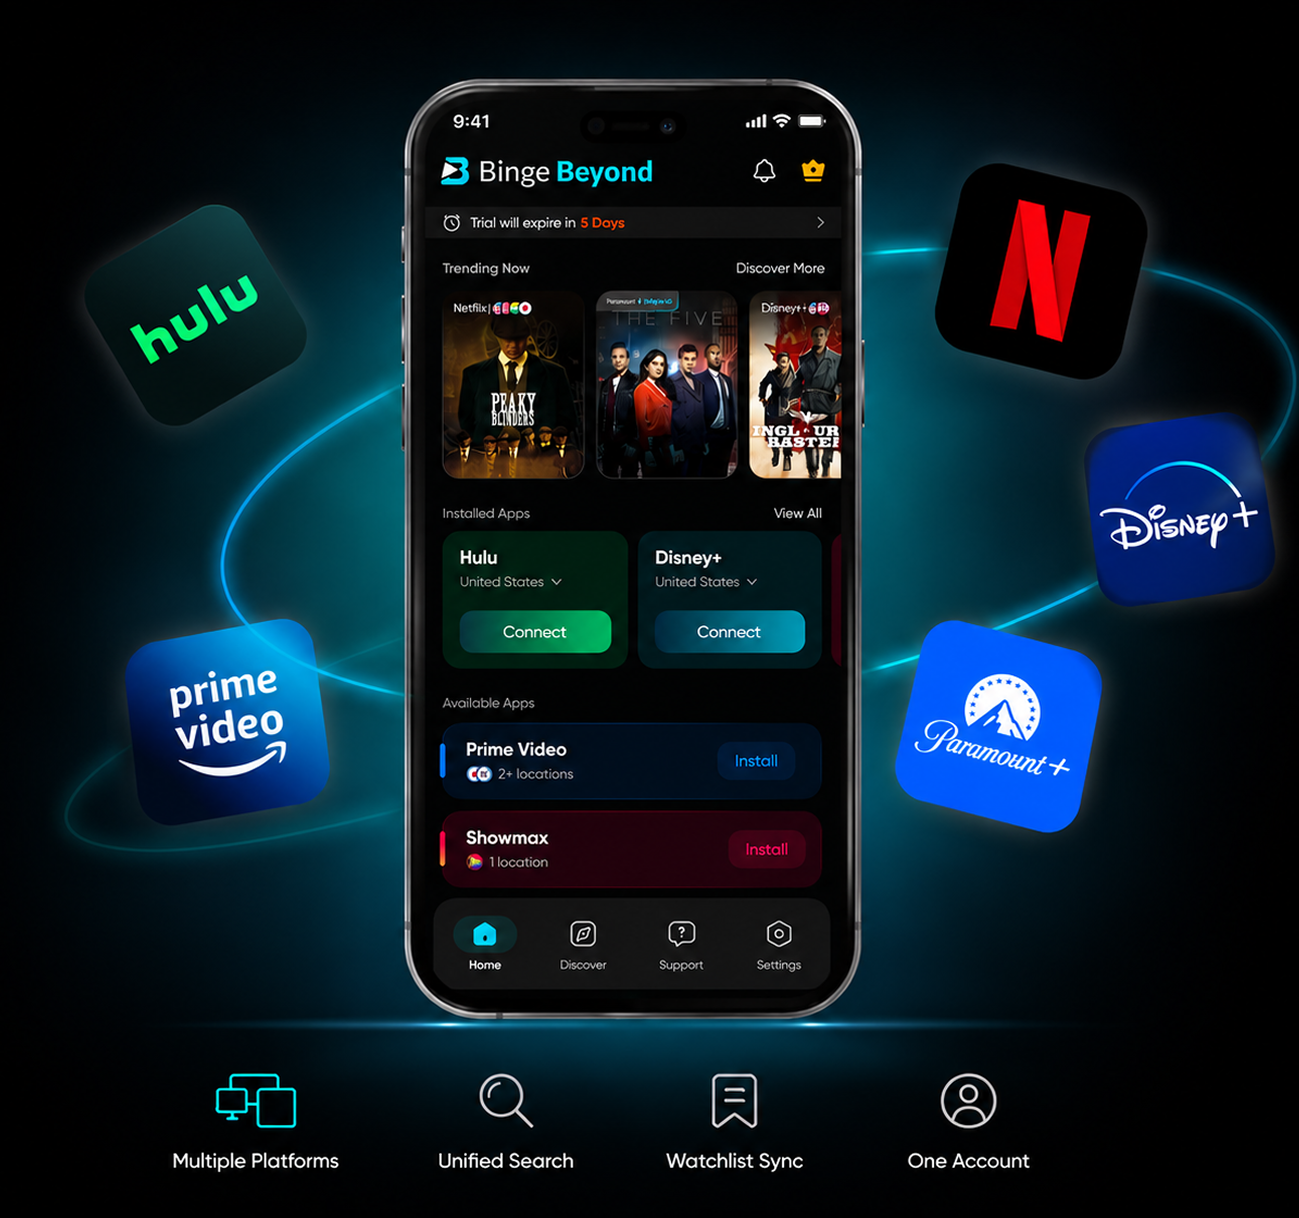
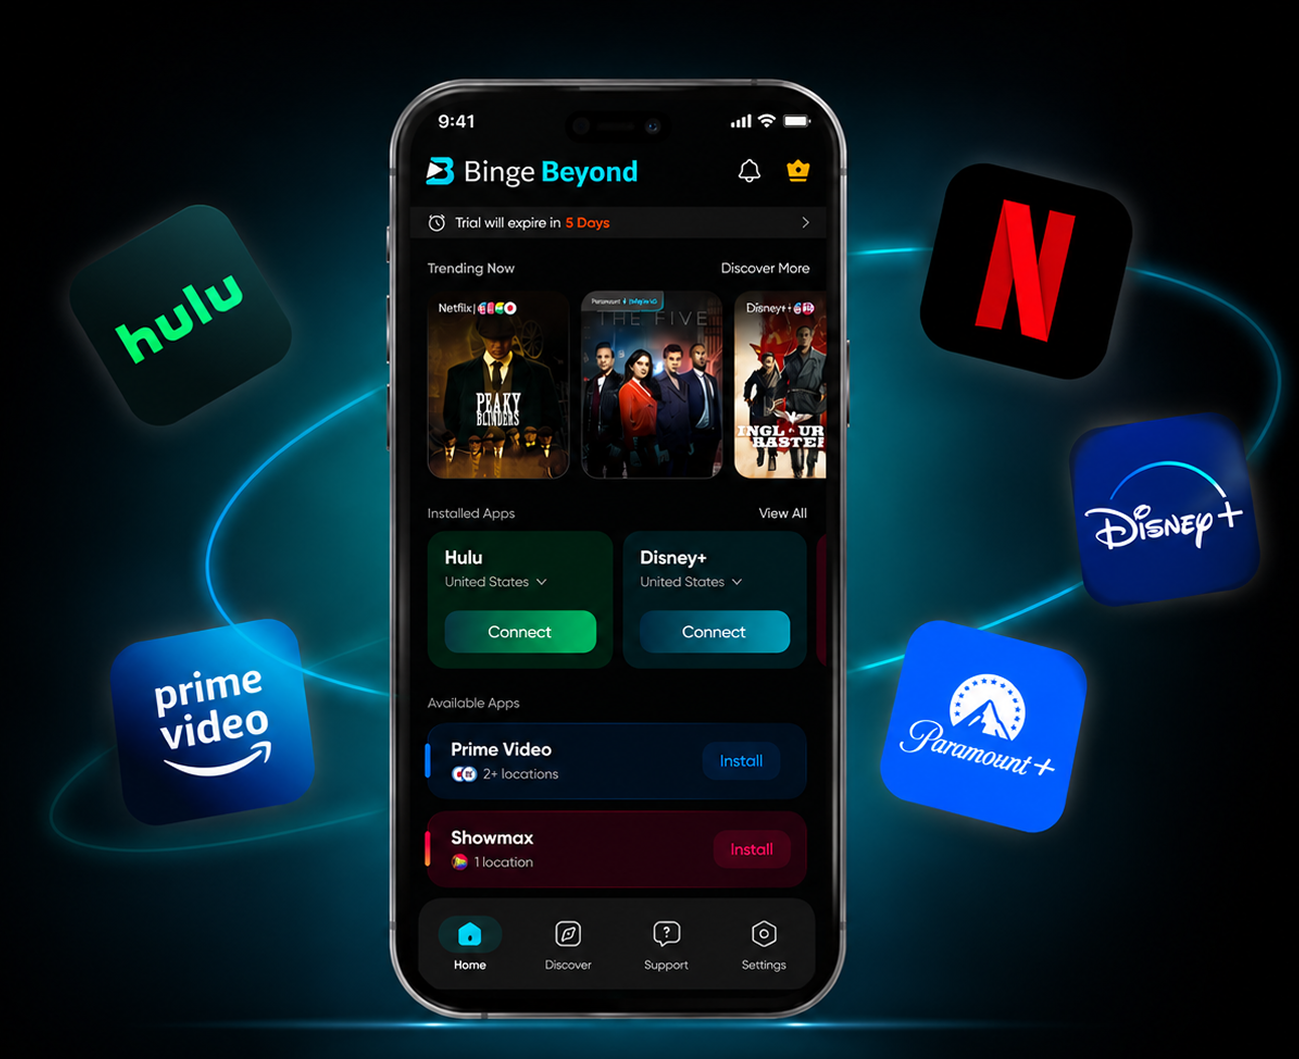
bg-gradient added

diff --git a/src/pages/VersionOneOne.jsx b/src/pages/VersionOneOne.jsx
@@ -18,6 +18,7 @@ import {
     Navigation, Share2, Layers as LayersIcon, Zap as ZapBolt, AppWindow,
     Mail, ExternalLink, Quote, Plus as PlusIcon, Minus as MinusIcon
 } from 'lucide-react';
+import logo from "../Binge-logo.svg";
 
 const App = () => {
     const [scrolled, setScrolled] = useState(false);
@@ -206,7 +207,7 @@ const App = () => {
     const prevTestimonial = () => setTestimonialSlide((prev) => (prev - 1 + testimonials.length) % testimonials.length);
 
     return (
-        <div className="min-h-screen bg-[#0f172a] text-white font-sans selection:bg-cyan-500 selection:text-black overflow-x-hidden relative">
+        <div className="min-h-screen master-raycast-atmosphere text-white font-sans selection:bg-cyan-500 selection:text-black overflow-x-hidden relative">
             <style>{`
         @keyframes slowPan { 0% { transform: scale(1.1) translate(0, 0); } 50% { transform: scale(1.15) translate(-1%, -1%); } 100% { transform: scale(1.1) translate(0, 0); } }
         @keyframes marquee { 0% { transform: translateX(0); } 100% { transform: translateX(-50%); } }
@@ -378,18 +379,30 @@ const App = () => {
             {/* Navigation */}
             <nav className={`fixed top-0 w-full z-50 transition-all duration-500 px-6 py-4 flex items-center justify-between ${scrolled ? 'bg-[#0f172a]/95 backdrop-blur-md border-b border-white/10 py-3' : 'bg-transparent'}`}>
                 <div className="flex items-center gap-8">
-                    <div className="text-2xl font-black tracking-tighter flex items-center">
-                        <span className="text-white text-[24px]">BINGE</span>
-                        <span className="text-cyan-400 text-[24px]">BEYOND</span>
+                    <div className="flex-shrink-0 flex items-center cursor-pointer">
+                        <img
+                            src="/images/Binge-logo.svg"
+                            alt="BingeBeyond Logo"
+                            className="h-8 w-8 object-contain mr-2"
+                        />
+                        <span className="text-white font-gilroy text-[16px] md:text-[22px] lg:text-[28px] font-normal non-italic leading-[130%]">Binge</span>
+                        <span className="text-[#00D1E9] font-gilroy text-[16px] md:text-[22px] lg:text-[28px] font-normal non-italic leading-[130%]">Beyond</span>
                     </div>
                     <div className="hidden md:flex items-center gap-6 text-[10px] font-black tracking-[0.3em] text-gray-300 uppercase">
                         <a href="#benefits" className="hover:text-cyan-400 transition-colors uppercase">Benefits</a>
                         <a href="#protocol" className="hover:text-cyan-400 transition-colors uppercase">How it works</a>
-                        <a href="#beyond" className="hover:text-cyan-400 transition-colors uppercase">Multiverse</a>
+                        <a href="" className="hover:text-cyan-400 transition-colors uppercase">Discover Beyond</a>
                     </div>
                 </div>
-                <button className="px-6 py-2 bg-cyan-400 text-black font-black rounded-full text-[10px] uppercase tracking-widest hover:bg-white transition-all shadow-[0_0_20px_rgba(34,211,238,0.3)]">Get Access</button>
-            </nav>
+                <a
+                    href="https://play.google.com/store/apps/details?id=bingebeyond.vpn.streaming"
+                    target="_blank"
+                    rel="noopener noreferrer"
+                    className="inline-block"
+                >
+                <button className="px-6 py-2 bg-cyan-400 text-black font-black rounded-full text-[10px] uppercase tracking-widest hover:bg-white transition-all shadow-[0_0_20px_rgba(34,211,238,0.3)]">Download The App</button>
+                </a>
+                </nav>
 
 
             {/* Hero Section */}
@@ -465,7 +478,7 @@ const App = () => {
 
             {/*    <div className="absolute bottom-0 left-0 w-full h-64 bg-gradient-to-t from-[#0f172a] to-transparent z-30" />*/}
             {/*</section>*/}
-            <section className=" mt-20 lg:mt-0 relative h-[90vh] w-full overflow-hidden flex items-center bg-[#0f172a] z-10">
+            <section className=" mt-20 lg:mt-0 relative h-[90vh] w-full overflow-hidden flex items-center bg-transparent z-10">
                 {/* 1. Background Gradient Fix */}
                 <div className=" absolute inset-0 -z-10 pointer-events-none">
                     <div className="absolute inset-0 pointer-events-none bg-transparent">
@@ -480,9 +493,11 @@ const App = () => {
 
                 {/* 3. Content Container */}
                 <div className="relative z-20 px-8 md:px-20 max-w-7xl">
-                    <div className="px-4 py-1.5 bg-cyan-400/20 border border-cyan-400/40 rounded-full text-cyan-400 text-[10px] font-black tracking-[0.4em] mb-8 inline-block uppercase shadow-[0_0_20px_rgba(34,211,238,0.2)] backdrop-blur-md">
-                        Unlock Global Content
-                    </div>
+                    {/*<div className="px-4 py-1.5 bg-cyan-400/20 border border-cyan-400/40 rounded-full text-cyan-400 text-[10px] font-black tracking-[0.4em] mb-8 inline-block uppercase shadow-[0_0_20px_rgba(34,211,238,0.2)] backdrop-blur-md">*/}
+                    {/*    Unlock Global Content*/}
+                    {/*</div>*/}
+                    <div className="inline-flex items-center gap-5 premium-badge text-[10px] uppercase tracking-[0.4em] mb-8">Unlock Global Content</div>
+
 
                     <h1 className="text-[48px] font-black leading-[1.1] tracking-tighter max-w-4xl uppercase drop-shadow-[0_10px_40px_rgba(0,0,0,0.5)] text-white">
                         Watch Shows, Movies & <br/>
@@ -517,7 +532,7 @@ const App = () => {
 
 
             {/* Marquee Bar - UPDATED SERVICES LIST */}
-            <section className="bg-slate-800/60 border-y border-white/15 shadow-2xl flex items-center overflow-hidden backdrop-blur-2xl z-10">
+            <section className="bg-transparent border-y border-white/15 shadow-2xl flex items-center overflow-hidden backdrop-blur-2xl z-10">
                 <div className="px-8 md:px-12 py-10 flex-shrink-0 border-r border-white/20 z-10 bg-slate-800/40">
                     <span className="text-[10px] font-black uppercase tracking-[0.3em] text-slate-300 whitespace-nowrap">Works With</span>
                 </div>
@@ -535,7 +550,7 @@ const App = () => {
 
 
                 {/* SCANNER SECTION - UPDATED TO STACKED LAYOUT WITH NEW TEXT */}
-                <section ref={sectionRef} className="py-40 bg-transparent px-6 relative overflow-hidden z-10 text-center">
+                <section ref={sectionRef} className="py-20 bg-transparent px-6 relative overflow-hidden z-10 text-center">
                     <div className="depth-wash-light" />
                     <div className="max-w-7xl mx-auto relative z-10 flex flex-col items-center">
                         <div className="space-y-6 text-white mb-20 max-w-4xl">
@@ -600,7 +615,7 @@ const App = () => {
 
 
             {/* UNIFIED SPOTLIGHT BENEFITS SECTION */}
-            <section id="benefits" className="relative z-10 py-40 bg-transparent">
+            <section id="benefits" className="relative z-10 py-20 bg-transparent">
                 <div className="depth-wash-heavy" />
                 <div className="max-w-7xl mx-auto px-6 relative z-10 text-white">
                     <div className="text-center mb-24">
@@ -671,10 +686,12 @@ const App = () => {
 
 
             {/* HOW IT WORKS SECTION */}
-            <section id="protocol" className="relative bg-transparent py-56 overflow-hidden z-10 border-y border-white/5">
+            <section id="protocol" className="relative bg-transparent py-20 overflow-hidden z-10 border-y border-white/5">
                 <div className="absolute inset-0 blueprint-grid opacity-[0.08] pointer-events-none" />
                 <div className="max-w-7xl mx-auto px-6 relative z-10 text-white">
-                    <div className="flex flex-col items-center text-center mb-32">
+                    <div className="flex flex-col items-center text-center mb-20">
+                        <div className="inline-flex items-center gap-5 premium-badge text-[10px] uppercase tracking-[0.4em] mb-8">How it works</div>
+
                         <h2 className="text-[38px] font-black uppercase tracking-tighter mb-6 high-visibility-heading">
                             Start Binge-Watching<br/>
                             <span className="text-cyan-400">In 3 Simple Steps.</span>
@@ -734,19 +751,19 @@ const App = () => {
 
 
             {/* MULTIVERSE FEED SECTION - RESTORED DUAL ROWS */}
-            <section id="beyond" className="relative py-48 bg-[#1e293b] relative overflow-hidden z-10 border-t border-white/10">
+            <section id="beyond" className="relative py-20 bg-transparent relative overflow-hidden z-10 border-t border-white/10">
                 <div className="absolute inset-0 blueprint-grid opacity-60 z-0" />
 
 
 
-                <div className="max-w-7xl mx-auto px-6 mb-24 relative z-10 text-center text-white">
-                    <div className="inline-flex items-center gap-3 px-5 py-2 bg-cyan-400/30 border border-cyan-400/50 rounded-full text-cyan-400 text-[10px] font-black uppercase tracking-[0.4em] backdrop-blur-md mb-8 shadow-xl">Millions of Shows, Matches & Movies</div>
+                <div className="max-w-7xl mx-auto px-6 mb-20 relative z-10 text-center text-white">
+                    <div className="inline-flex items-center gap-5 premium-badge text-[10px] uppercase tracking-[0.4em] mb-8">Millions of Shows, Matches & Movies</div>
                     <h2 className="text-[38px] font-black uppercase tracking-tighter leading-none mb-6 text-white drop-shadow-md">Stream right on the apps <br/> <span className="text-cyan-400">you already use.</span></h2>
                     <p className="text-slate-100 max-w-xl mx-auto text-sm font-bold leading-relaxed uppercase tracking-[0.2em] drop-shadow-md">Access live sports on SonyLiv, exclusive anime on Crunchyroll Japan, and blockbusters on US Netflix in seconds. Connect once and explore entertainment worldwide.</p>
                 </div>
 
 
-                <div className="relative z-10 flex flex-col gap-20 perspective-[2000px] py-10 mask-fade-x">
+                <div className="relative z-10 flex flex-col gap-20 perspective-[2000px] pb-10 mask-fade-x">
                     <div className="animate-marquee whitespace-nowrap flex gap-12 py-4">
                         {[...multiverseContent, ...multiverseContent].map((item, i) => (
                             <div key={i} className="group relative w-[320px] aspect-[16/9] flex-shrink-0 rounded-[20px] overflow-hidden  transition-all duration-700  shadow-[0_30px_70px_rgba(0,0,0,0.6)] border-white/40">
@@ -769,10 +786,10 @@ const App = () => {
 
 
             {/* TESTIMONIALS SECTION - 3 CARDS PER SLIDE */}
-            <section id="testimonials" className="relative bg-[#1e293b] py-56 overflow-hidden border-t border-white/10 z-10">
+            <section id="testimonials" className="relative bg-transparent py-20 overflow-hidden border-t border-white/10 z-10">
                 <div className="max-w-7xl mx-auto px-2 md:px-6 relative z-10">
-                    <div className="text-center mb-32">
-                        <div className="inline-flex items-center gap-3 px-5 py-2 bg-cyan-400/30 border border-cyan-400/50 rounded-full text-cyan-400 text-[10px] font-black uppercase tracking-[0.4em] backdrop-blur-md mb-8 shadow-xl">Reviews</div>
+                    <div className="text-center mb-20">
+                        <div className="inline-flex items-center gap-5 premium-badge text-[10px] uppercase tracking-[0.4em] mb-8">Reviews</div>
                         <h2 className="text-[38px] font-black uppercase tracking-tighter text-white leading-[1.1] drop-shadow-md">
                             Trusted by over <br/> <span className="text-cyan-400">100,000 Streamers</span>
                         </h2>
@@ -830,9 +847,9 @@ const App = () => {
             </section>
 
             {/* FAQs SECTION */}
-            <section id="faqs" className="relative bg-[#334155] py-56 overflow-hidden border-t border-white/20 z-10 blueprint-grid">
+            <section id="faqs" className="relative bg-transparent py-20 overflow-hidden border-t border-white/20 z-10 blueprint-grid">
                 <div className="max-w-5xl mx-auto px-6 relative z-10">
-                    <div className="text-center mb-32 text-white">
+                    <div className="text-center mb-20 text-white">
                         <h2 className="text-[38px] font-black uppercase tracking-tighter mb-6 drop-shadow-md">
                             Frequently Asked <span className="text-cyan-400">Questions</span>
                         </h2>
@@ -865,10 +882,10 @@ const App = () => {
 
 
             {/* FINAL CTA SECTION */}
-            <section className="relative py-72 bg-[#0f172a] overflow-hidden border-t border-white/20 z-10">
+            <section className="relative py-72 bg-transparent overflow-hidden border-t border-white/20 z-10">
                 <div className="absolute inset-0 z-0">
-                    <img src="https://images.unsplash.com/photo-1614728263952-84ea256f9679?q=80&w=2000" alt="CTA Hero" className="w-full h-full object-cover scale-105 opacity-[0.6] animate-slow-pan" />
-                    <div className="absolute inset-0 bg-gradient-to-b from-[#0f172a]/60 via-[#0f172a]/80 to-[#0f172a]" />
+                    <img src="/images/cta-img.png" alt="CTA Hero" className="w-full h-full object-cover scale-100 animate-slow-pan" />
+
                 </div>
                 <div className="max-w-7xl mx-auto px-6 relative z-10 text-center text-white">
 
@@ -896,7 +913,7 @@ const App = () => {
 
 
             {/* FOOTER */}
-            <footer className="bg-[#0f172a] pt-32 pb-16 px-6 border-t border-white/20 relative overflow-hidden z-10">
+            <footer className="bg-transparent pt-32 pb-16 px-6 border-t border-white/20 relative overflow-hidden z-10">
                 <div className="absolute bottom-0 left-1/2 -translate-x-1/2 w-full h-[700px] bg-cyan-500/[0.15] blur-[220px] rounded-full pointer-events-none" />
                 <div className="max-w-7xl mx-auto relative z-10">
                     <div className="grid grid-cols-1 md:grid-cols-4 gap-20 mb-24">

diff --git a/src/pages/demo.jsx b/src/pages/demo.jsx
@@ -161,7 +161,7 @@ const App = () => {
 
 
     return (
-        <div className="min-h-screen bg-[#0f172a] text-white font-sans selection:bg-cyan-500 selection:text-black overflow-x-hidden relative">
+        <div className="min-h-screen master-raycast-atmosphere text-white font-sans selection:bg-cyan-500 selection:text-black overflow-x-hidden relative">
             <style>{`
         @keyframes slowPan { 0% { transform: scale(1.1) translate(0, 0); } 50% { transform: scale(1.15) translate(-1%, -1%); } 100% { transform: scale(1.1) translate(0, 0); } }
         @keyframes marquee { 0% { transform: translateX(0); } 100% { transform: translateX(-50%); } }
@@ -270,7 +270,7 @@ const App = () => {
 
 
             {/* HERO SECTION */}
-            <section className="relative h-[95vh] w-full overflow-hidden flex items-center bg-[#0f172a] z-10">
+            <section className="relative h-[95vh] w-full overflow-hidden flex items-center bg-transparent z-10">
                 <div className="absolute inset-0 grid grid-cols-4 md:grid-cols-6 lg:grid-cols-10 gap-3 p-3 opacity-90 animate-slow-pan pointer-events-none">
                     {[...posters, ...posters, ...posters, ...posters].map((p, i) => (
                         <div key={i} className="aspect-[2/3] rounded-lg bg-gray-900/50 border border-white/10 overflow-hidden shadow-inner">
@@ -298,7 +298,7 @@ const App = () => {
 
 
             {/* Marquee Bar */}
-            <section className="bg-slate-800/60 border-y border-white/15 shadow-2xl flex items-center overflow-hidden backdrop-blur-2xl z-20 relative">
+            <section className="bg-transparent border-y border-white/15 shadow-2xl flex items-center overflow-hidden backdrop-blur-2xl z-20 relative">
                 <div className="px-8 md:px-12 py-10 flex-shrink-0 border-r border-white/20 z-10 bg-slate-800/40">
                     <span className="text-[10px] font-black uppercase tracking-[0.3em] text-slate-300 whitespace-nowrap">Works With</span>
                 </div>
@@ -313,7 +313,7 @@ const App = () => {
 
 
             {/* MASTER ATMOSPHERE */}
-            <div className="master-raycast-atmosphere">
+            <div className="bg-transparent relative">
                 <div className="noise-overlay" />
 
                 {/* SCANNER SECTION - UPDATED TO STACKED LAYOUT WITH NEW TEXT */}
@@ -660,7 +660,7 @@ const App = () => {
 
 
                 {/* FINAL CTA SECTION */}
-                <section className="relative py-72 bg-black/15 overflow-hidden border-t border-white/10 z-10 text-white text-center">
+                <section className="relative py-72 bg-transparent overflow-hidden border-t border-white/10 z-10 text-white text-center">
                     <div className="absolute inset-0 bg-gradient-to-t from-[#00D1E9]/30 to-transparent pointer-events-none" />
                     <div className="max-w-7xl mx-auto px-6 relative z-10">
                         <div className="premium-badge text-[10px] mb-10 inline-block uppercase tracking-[0.4em] shadow-2xl">
@@ -686,7 +686,7 @@ const App = () => {
 
 
                 {/* FOOTER */}
-                <footer className="bg-black/80 pt-32 pb-16 px-6 border-t border-white/5 relative overflow-hidden z-10 text-white">
+                <footer className="bg-transparent pt-32 pb-16 px-6 border-t border-white/5 relative overflow-hidden z-10 text-white">
                     <div className="max-w-7xl mx-auto relative z-10">
                         <div className="grid grid-cols-1 md:grid-cols-4 gap-20 mb-24 font-black">
                             <div className="col-span-1 md:col-span-2">
